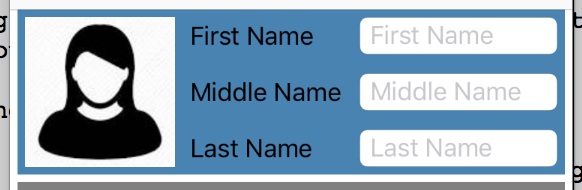
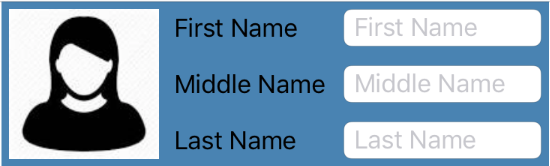
fixed image

diff --git a/README.md b/README.md
@@ -14,8 +14,7 @@ Bottom line - one function call includes all the aspects of constraining childre
 ## Example
 
 Fragment that generates this form header:<br>
-<img src="../images/form_header.png">
-<br>
+<img src="./images/form_header.png" height="100px">
 ```Swift
     let image = UIImageView(image: UIImage(named: "PersonProfile"))
     let firstName = UITextField()
